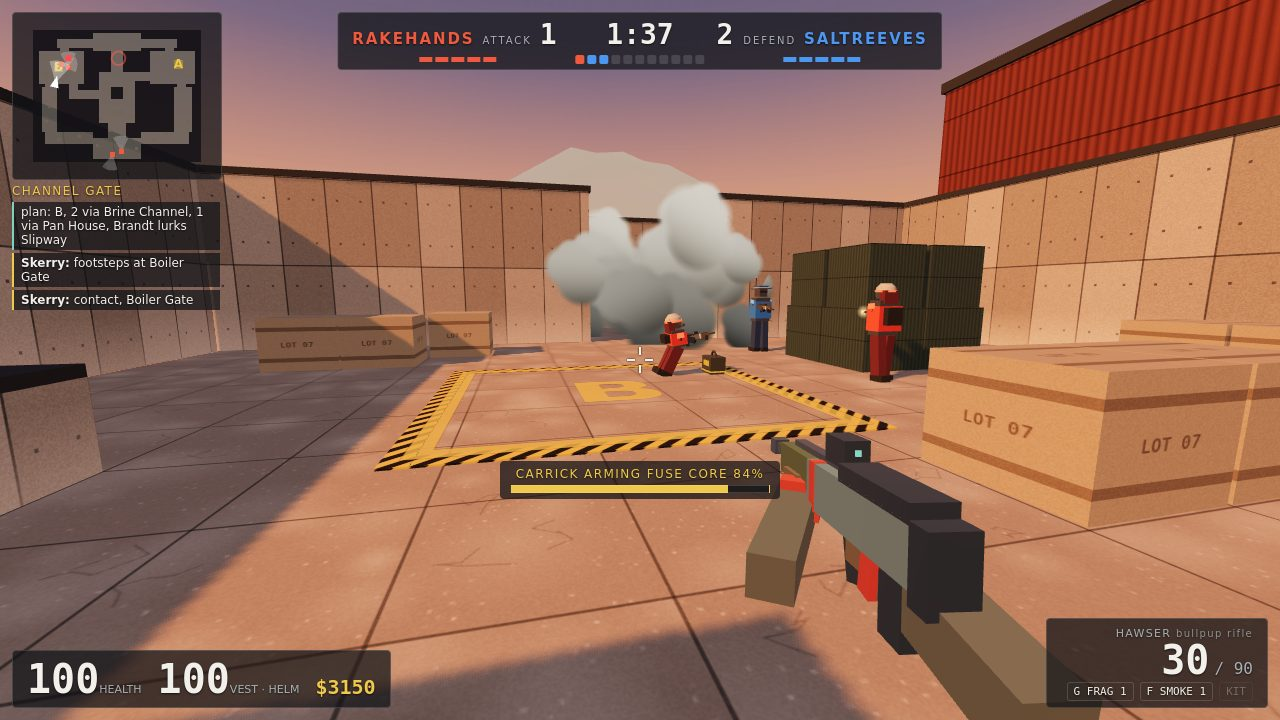
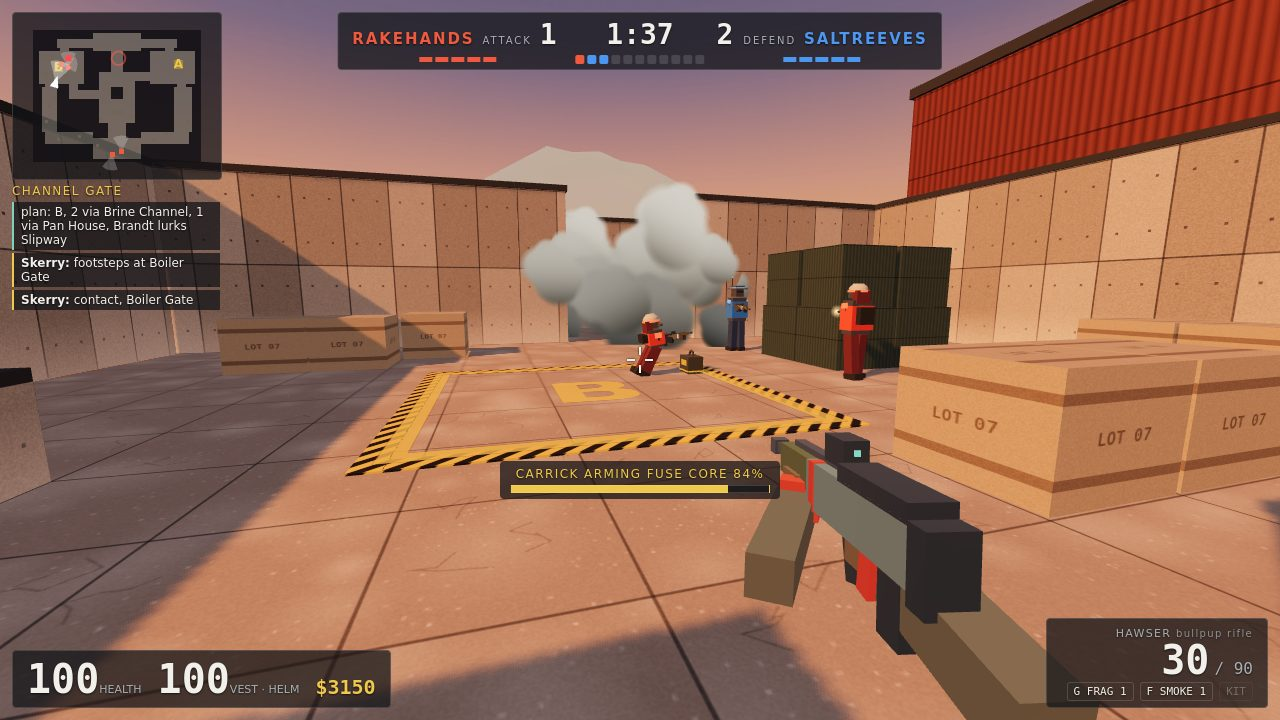
Shot 3 turned slightly right: the dark low-wall wedge at the bottom left shrinks to an edge strip
tools/stage.js scene 3 aims at (9.4, 9); the B pad, the arming bar, Carrick, the smoke, the
Saltreeve and Skerry stay in view. tools/ only. Fresh screenshots.

diff --git a/tools/stage.js b/tools/stage.js
@@ -46,7 +46,7 @@ const SCENES = {
     radio: [['m1', 'footsteps at Boiler Gate'], ['m1', 'contact, Boiler Gate']],
     fire: [['f0', 4]], // the smoke's edge hides him: no clear shot either way inside the scene (any clear line
     // past the cloud picks the arming Carrick, the nearest target, and ends the arm)
-    script(i, s) { s.aim(null, -0.14, 9, 9); } },
+    script(i, s) { s.aim(null, -0.14, 9.4, 9); } },
   // A retake of A won by a teammate's disarm with the kit, 2.7 m ahead, looking south down the lane past the
   // pad over two downed Saltreeves: the window turns teal, the banner names the disarm; the match goes on.
   4: { side: 1, round: 7, clock: 95, core: 'armed', site: 'A', ticks: 234, end: 0.017, dead: ['f0', 'f1'],
